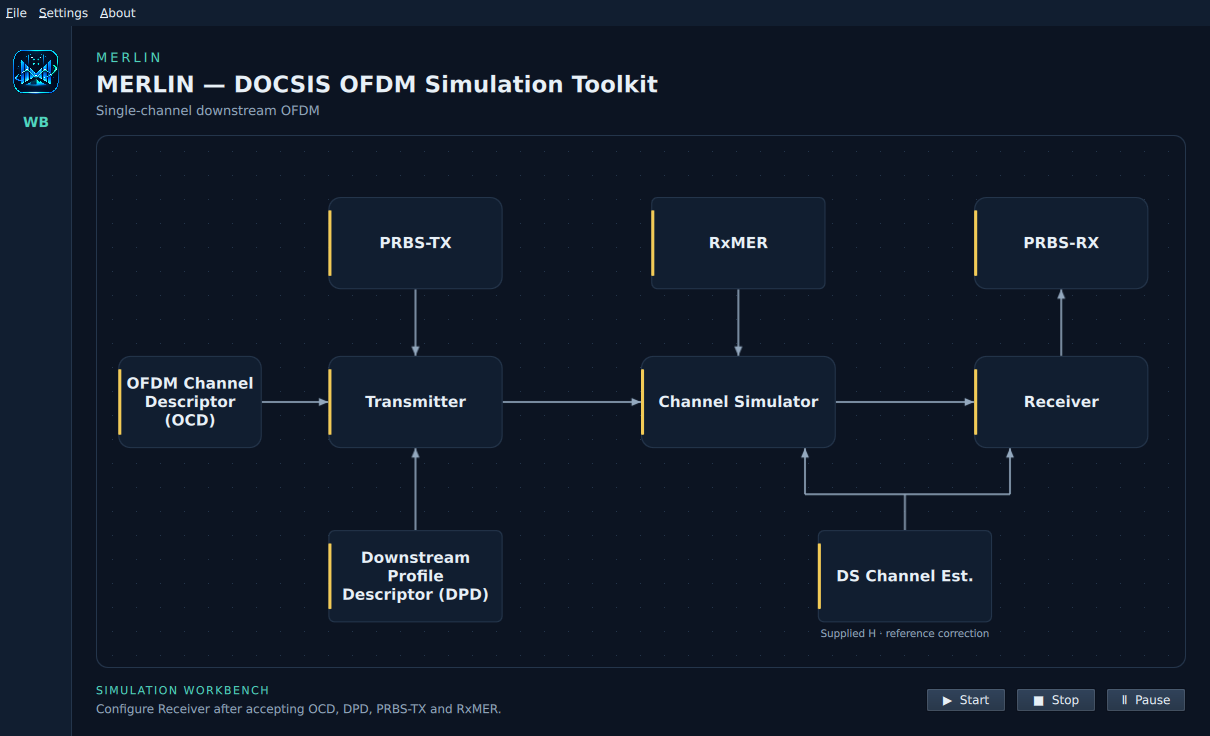
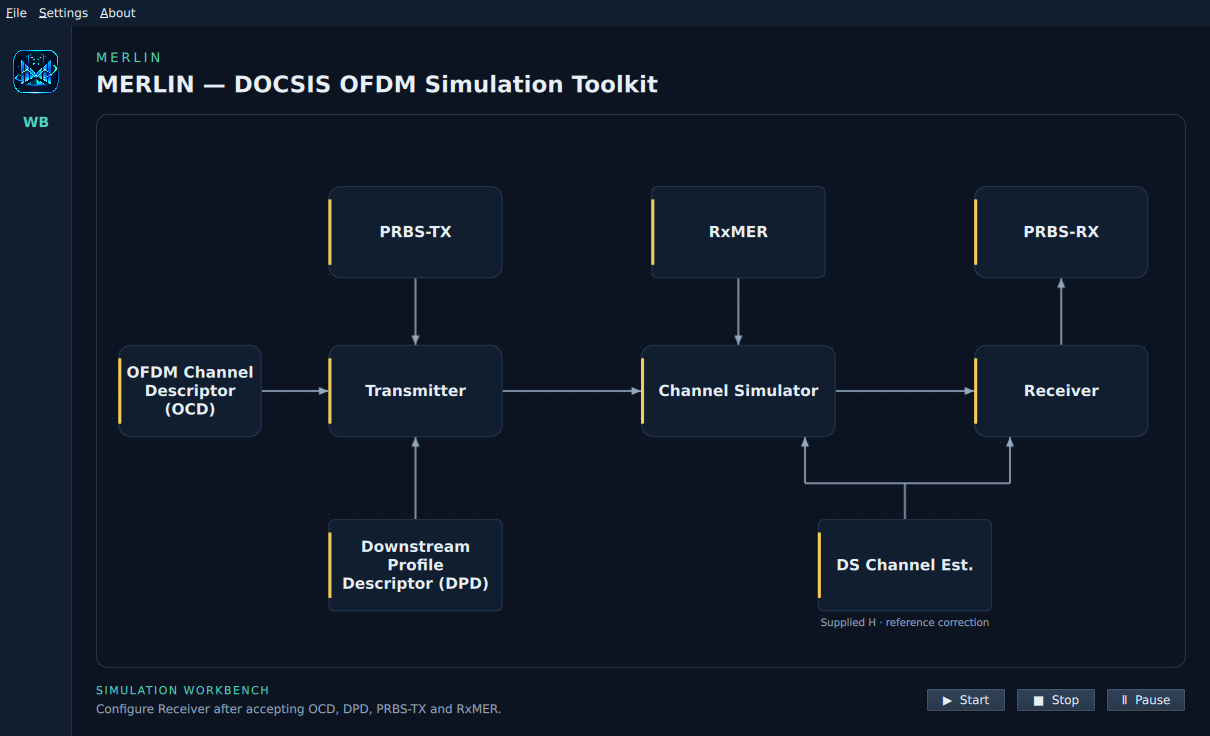
Feature: Simplify the workbench heading - Remove the single-channel subtitle - Refresh the dark screenshot and user guide - Record heading design and validation - Include the saved example workbench configuration - Tests: Pass 25 QML checks and rebuild Qt - Tests: Review the updated header on the VM

diff --git a/apps/qt/qml/Workbench.qml b/apps/qt/qml/Workbench.qml
@@ -106,7 +106,6 @@ Item {
                 spacing: 5
                 Label { text: "MERLIN"; color: theme.accent; font.pixelSize: 13; font.letterSpacing: 3 }
                 Label { text: "MERLIN — DOCSIS OFDM Simulation Toolkit"; color: theme.text; font.pixelSize: 23; font.weight: Font.DemiBold }
-                Label { text: "Single-channel downstream OFDM"; color: theme.muted; font.pixelSize: 13 }
             }
             Item { Layout.fillWidth: true }
         }

diff --git a/docs/development/features/visual-workspace/design.md b/docs/development/features/visual-workspace/design.md
@@ -9,6 +9,17 @@ input and observation boundaries.
 
 ## UI-01: Shell, dialogs and lifecycle
 
+### UI-SHELL-08: Simplify workbench heading
+
+Remove the “Single-channel downstream OFDM” subtitle from `Workbench.qml`.
+Retain the MERLIN label and toolkit title. This presentation-only change uses
+the existing QML checks, a retained-artifact Qt build and an actual dark VM
+screenshot in the workbench user guide.
+
+Complete: 25 QML checks passed, the Qt executable was rebuilt and restarted,
+and the actual dark VM header was reviewed. The guide screenshot is refreshed;
+the native log has no QML warnings. No non-Qt checks were needed.
+
 ### UI-SHELL-07: Measurement input placement
 
 Remove the top dashed original/recovered comparison connector and its caption.

diff --git a/docs/user/workbench.md b/docs/user/workbench.md
@@ -6,6 +6,9 @@ of the measurement-input blocks to open its section dialog. Close the dialog
 or press Escape to return. Use **Settings → Global → Light/Dark mode** to change the palette and icon
 across all windows. The change applies immediately and lasts for this session.
 
+The heading displays MERLIN and the toolkit title; the secondary subtitle has
+been removed to keep the header compact.
+
 Every popup has a circular **X** in its upper-right title bar, as well as its
 existing **Close** or **Cancel** button. X dismisses only the current popup;
 editor drafts are not applied. Closing a nested analyzer returns to its parent
